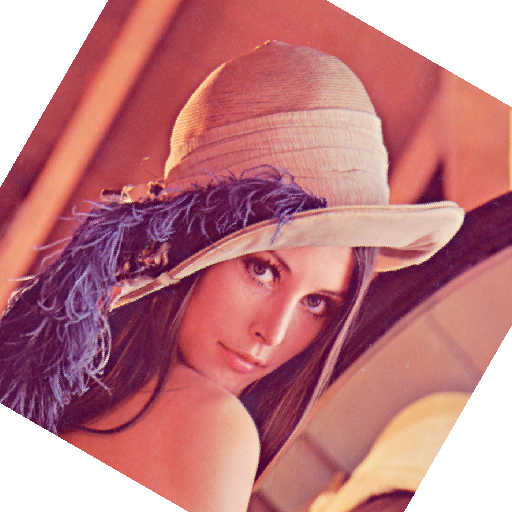
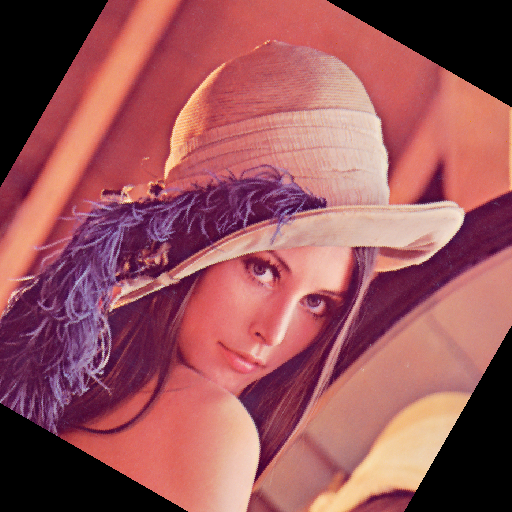
updata files

diff --git a/No.6_3_OpenCLSampler/rotate.cpp b/No.6_3_OpenCLSampler/rotate.cpp
@@ -243,7 +243,6 @@ void rotate(uint8_t *src, uint8_t *des, int w, int h, float angle)
 	image_format.image_channel_order = CL_RGBA;
 	image_format.image_channel_data_type = CL_UNORM_INT8;
 
-	/* pitch 值描述? */
 	in_buffer = clCreateImage(context,
 		CL_MEM_READ_ONLY | CL_MEM_USE_HOST_PTR, &image_format,
 		&image_desc, src, &err);
@@ -254,18 +253,6 @@ void rotate(uint8_t *src, uint8_t *des, int w, int h, float angle)
 
 	out_buffer = clCreateImage(context, CL_MEM_WRITE_ONLY, &image_format,
 		&image_desc, NULL, &err);
-
-	int color[4] = {0, 0, 0, 1};
-	size_t origin[3] = {0, 0, 0};
-	size_t region[3] = {w, h, 1};
-
-	err = clEnqueueFillImage(queue, out_buffer, color,
-		origin, region, NULL, NULL, NULL);
-	if(err < 0) {
-		printf("Couldn't file the image: %d\n", err);
-		exit(EXIT_FAILURE);
-	}
-
 	if (err < 0)  {
 		perror("Couldn't create a out buffer");
 		exit(EXIT_FAILURE);   

diff --git a/No.6_2_OpenCLSampler/OpenCLSampler.md b/No.6_2_OpenCLSampler/OpenCLSampler.md
@@ -62,6 +62,7 @@ __kernel void rotate_rgba(__read_only image2d_t srcImg,
 	write_imagef(dstImg, (int2)(x, y), value);
 }
 ```
+采样器的寻址模式为 `CLK_ADDRESS_CLAMP`，超过图像区域的坐标返回边框的颜色。由于图像的颜色通道是 CL_RGBA，对应的边框颜色为 （0.0f，0.0f， 0.0f，0.0f），它的 Alpha 通道为 0，表示全透明。当像素点的 Alpha 通道为全透明时，则什么也看不见。
 
 ## 结果
 该程序运行后，经过 `No.2_2_FreeImage` 处理显示效果如下图所示。
@@ -74,18 +75,10 @@ __kernel void rotate_rgba(__read_only image2d_t srcImg,
 
 <img src="image/lenna_target.png" width="40%" height="20%">
 
-
-顺时针和逆时针的区别：
-如果从 A 取值，写到 A'，为逆时针旋转；
-如果是从 A' 采样，写到 A，则是顺时针旋转，可以对这两个点的坐标值分别采样。
+### 旋转方向
+如果是从 A' 采样，写到 A，则是顺时针旋转。`旋转后图像`的四个角中，由于`原始图像`的采样点在图像区域的外面，所以是边框的颜色。在 [No.6_3_OpenCLSampler](../No.6_3_OpenCLSampler/OpenCLSampler.md) 中，采样的时候，如果采样区域在图像外面，把它设置为黑色。
 
 ## 参考
-
-问题：
-旋转后图像的背景颜色是什么，怎么解释？
-- 怎么让旋转后的图像背景是黑色？
-
-在 6_3 中使用 FillImage 将图像清除为黑色。
 
 
 
